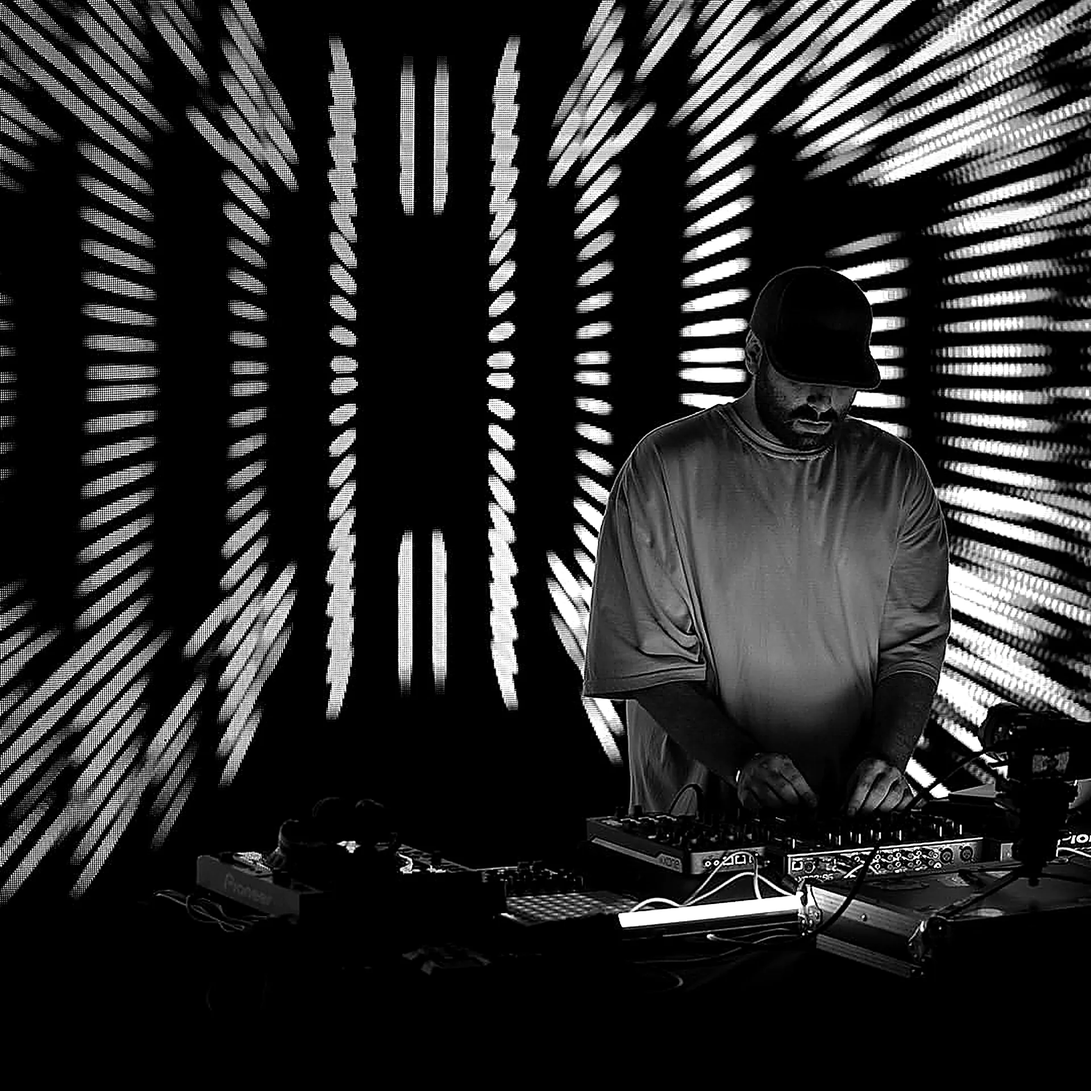
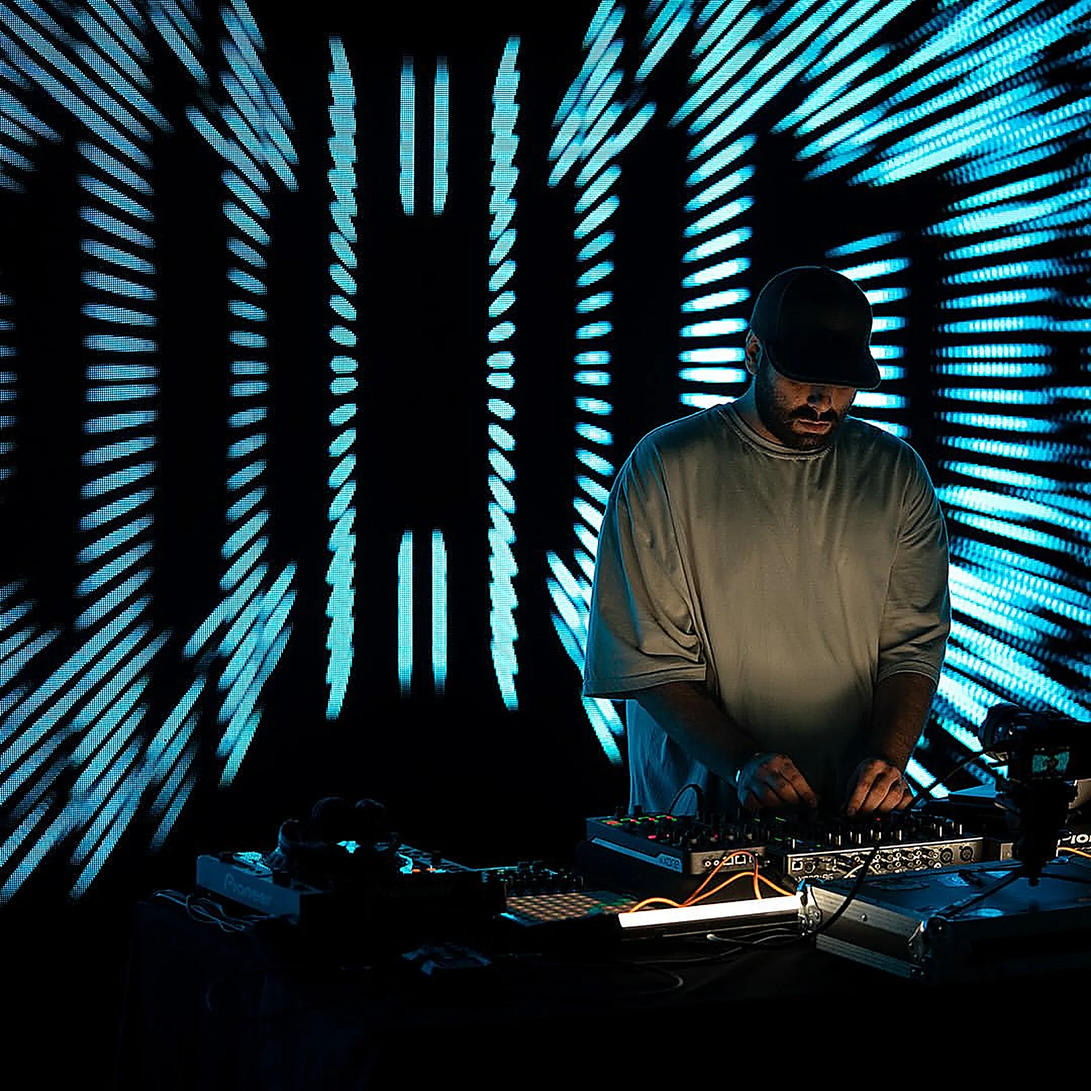
Colour hero and reference-style yellow platform band
- the hero keeps the shot's colour — the blue LED wall is its identity,
  and the B&W conversion was reading as low quality; still upscaled once
  with Lanczos + unsharp in the pipeline
- the platforms strip becomes the reference's full-bleed yellow band with
  dark bold platform wordmarks, hanging flush at the end of the music
  section

Claude-Session: https://claude.ai/code/session_011uHNBaPLMyEE6UfUpLLwyM

diff --git a/assets/css/style.css b/assets/css/style.css
@@ -288,7 +288,7 @@ h1, h2, h3, h4, p, figure { margin: 0; }
   height: 100%;
   object-fit: cover;
   object-position: 62% 32%;
-  filter: grayscale(1) contrast(1.04);
+  /* the hero stays colour — the blue LED wall is the shot */
 }
 
 .hero__overlay {
@@ -447,33 +447,47 @@ h1, h2, h3, h4, p, figure { margin: 0; }
 }
 
 /* ---- music -------------------------------------------------------- */
-/* platform strip — quiet gray wordmarks that light up on hover */
+/* platform band — the reference's full-bleed yellow strip with dark
+   platform wordmarks */
 .platforms {
+  margin-top: clamp(3rem, 6vw, 5rem);
+  background: var(--accent);
+  padding-block: 1.4rem;
+}
+.platforms__inner {
   display: flex;
   flex-wrap: wrap;
   align-items: baseline;
-  gap: 1rem 2.5rem;
-  padding-block: 1.25rem;
-  border-block: 1px solid var(--hairline);
+  gap: 1rem 2.75rem;
 }
 .platforms__label {
   font-size: .5625rem;
-  font-weight: 500;
+  font-weight: 700;
   letter-spacing: .26em;
   text-transform: uppercase;
-  color: var(--dim);
+  color: rgba(10, 10, 10, .6);
 }
 .platforms__list {
   display: flex;
   flex-wrap: wrap;
-  gap: .75rem 2.25rem;
-  font-size: .8125rem;
+  align-items: baseline;
+  gap: .75rem 2.5rem;
+  font-size: .9375rem;
   font-weight: 700;
-  letter-spacing: .08em;
+  letter-spacing: .06em;
   text-transform: uppercase;
 }
-.platforms__list a { color: var(--muted); transition: color .3s var(--ease); }
-.platforms__list a:hover { color: var(--accent); }
+.platforms__list a {
+  color: #0A0A0A;
+  opacity: .85;
+  transition: opacity .3s var(--ease), transform .3s var(--ease);
+  display: inline-block;
+}
+.platforms__list a:hover { opacity: 1; transform: translateY(-2px); }
+
+/* the band hangs at the section's end, flush with its bottom edge */
+.music { padding-bottom: 0; }
+.music .platforms { margin-top: clamp(3.5rem, 7vw, 5.5rem); }
 
 /* featured player */
 .player { margin-top: clamp(2rem, 4.5vw, 3.5rem); }

diff --git a/index.html b/index.html
@@ -96,16 +96,19 @@
         <p>Originals, live mixes and label V.A. cuts — streamed and sold on the platforms below.</p>
       </header>
 
-      <div class="platforms reveal">
-        <span class="platforms__label">Available on</span>
-        <ul class="platforms__list" id="platform-list"></ul>
-      </div>
-
       <div class="player reveal">
         <div class="player__frame" id="featured-player"></div>
       </div>
 
       <div class="grid--releases" id="release-grid"></div>
+    </div>
+
+    <!-- platform band — full-bleed yellow strip, reference-style -->
+    <div class="platforms reveal" aria-label="Streaming platforms">
+      <div class="wrap platforms__inner">
+        <span class="platforms__label">Available on</span>
+        <ul class="platforms__list" id="platform-list"></ul>
+      </div>
     </div>
   </section>
 

diff --git a/tools/prepare-images.py b/tools/prepare-images.py
@@ -40,9 +40,10 @@ QUALITY = 82
 #          the card CSS shows it grayscale at rest and lets colour through on
 #          hover, so the files stay colour. Photos default to B&W.
 JOBS = [
-    # full-bleed hero: the 1080px source is upscaled once here with Lanczos
-    # + unsharp (better than letting the browser stretch it) and lifted
-    dict(src="hero-led-blue.jpeg",   out="hero.webp",       width=1920, upscale=True, lift=1.10, sharpen=True),
+    # full-bleed hero: kept in COLOUR per the artist — the blue LED wall is
+    # the shot's identity. Upscaled once here with Lanczos + unsharp
+    # (better than letting the browser stretch it).
+    dict(src="hero-led-blue.jpeg",   out="hero.webp",       width=1920, upscale=True, sharpen=True, mono=False),
     dict(src="portrait-studio.jpeg", out="bio.webp",        width=1400, aspect=(4, 5),  focus=0.20),
     dict(src="live-beams.jpeg",      out="roster/artist-01.webp", width=900, aspect=(3, 4), focus=0.38),
 
